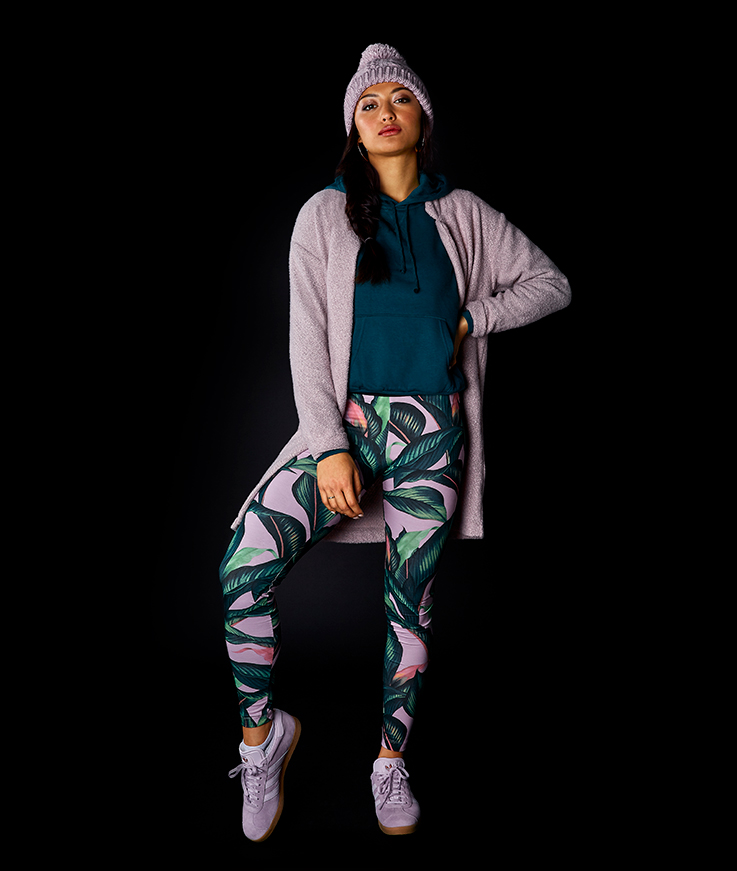
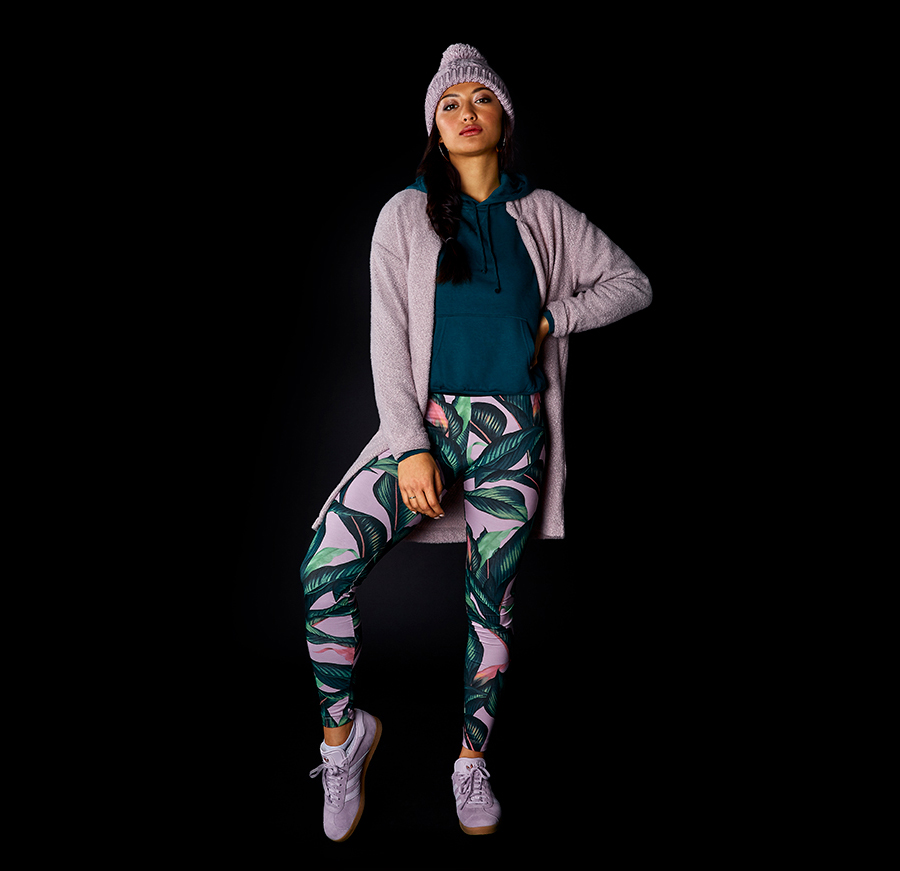
updating slider for ldo

Changed region(s): [[0.2809, 0.031, 0.7802, 0.992]]

diff --git a/_site/work/ldo/index.html b/_site/work/ldo/index.html
@@ -11,7 +11,7 @@
 <link rel="icon" type="image/png" href="/assets/img/favicon.png" />
 
 <script src="https://use.fontawesome.com/610695cb43.js"></script>
-<link rel="stylesheet" href="/assets/main.css?1560355716">
+<link rel="stylesheet" href="/assets/main.css?1560357481">
 
 <meta name="twitter:card" content="summary_large_image">
 <meta name="twitter:site" content="@" />
@@ -199,7 +199,7 @@
 </div>
 
         
-            <section class="section section--half-yellow">
+            <section class="section section--half-yellow slider--50">
     
     <div class="slider">
         <div class="slider__scroll">
@@ -225,7 +225,7 @@
                     </div>          
                 
                     <div class="slider__item">
-                        <img class="slider__item__image" src="/assets/img/case-studies/ldo/slider_2_4.jpg">                
+                        <img class="slider__item__image" src="/assets/img/case-studies/ldo/slider_2_5.jpg">                
                     </div>          
                 
             

diff --git a/pages/i-work-ldo.html b/pages/i-work-ldo.html
@@ -114,14 +114,14 @@ sections:
     content: |
         <hr class="hr" />
 -
-    class: 'section--half-yellow'
+    class: 'section--half-yellow slider--50'
     template: sections/slider.html
     data:
         - /assets/img/case-studies/ldo/slider_2_1.jpg
         - /assets/img/case-studies/ldo/slider_2_2.jpg
         - /assets/img/case-studies/ldo/slider_2_3.jpg
         - /assets/img/case-studies/ldo/slider_2_4.jpg
-        - /assets/img/case-studies/ldo/slider_2_4.jpg
+        - /assets/img/case-studies/ldo/slider_2_5.jpg
 -
     class: 'section--padding section--blue section--center section--peak section--peak--yellow'
     template: sections/section.html

diff --git a/_site/404.html b/_site/404.html
@@ -11,7 +11,7 @@
 <link rel="icon" type="image/png" href="/assets/img/favicon.png" />
 
 <script src="https://use.fontawesome.com/610695cb43.js"></script>
-<link rel="stylesheet" href="/assets/main.css?1560355716">
+<link rel="stylesheet" href="/assets/main.css?1560357481">
 
 <meta name="twitter:card" content="summary_large_image">
 <meta name="twitter:site" content="@" />

diff --git a/_site/about/index.html b/_site/about/index.html
@@ -11,7 +11,7 @@
 <link rel="icon" type="image/png" href="/assets/img/favicon.png" />
 
 <script src="https://use.fontawesome.com/610695cb43.js"></script>
-<link rel="stylesheet" href="/assets/main.css?1560355716">
+<link rel="stylesheet" href="/assets/main.css?1560357481">
 
 <meta name="twitter:card" content="summary_large_image">
 <meta name="twitter:site" content="@" />

diff --git a/_site/careers/index.html b/_site/careers/index.html
@@ -11,7 +11,7 @@
 <link rel="icon" type="image/png" href="/assets/img/favicon.png" />
 
 <script src="https://use.fontawesome.com/610695cb43.js"></script>
-<link rel="stylesheet" href="/assets/main.css?1560355716">
+<link rel="stylesheet" href="/assets/main.css?1560357481">
 
 <meta name="twitter:card" content="summary_large_image">
 <meta name="twitter:site" content="@" />

diff --git a/_site/contact/index.html b/_site/contact/index.html
@@ -11,7 +11,7 @@
 <link rel="icon" type="image/png" href="/assets/img/favicon.png" />
 
 <script src="https://use.fontawesome.com/610695cb43.js"></script>
-<link rel="stylesheet" href="/assets/main.css?1560355716">
+<link rel="stylesheet" href="/assets/main.css?1560357481">
 
 <meta name="twitter:card" content="summary_large_image">
 <meta name="twitter:site" content="@" />

diff --git a/_site/cookies-and-privacy/index.html b/_site/cookies-and-privacy/index.html
@@ -11,7 +11,7 @@
 <link rel="icon" type="image/png" href="/assets/img/favicon.png" />
 
 <script src="https://use.fontawesome.com/610695cb43.js"></script>
-<link rel="stylesheet" href="/assets/main.css?1560355716">
+<link rel="stylesheet" href="/assets/main.css?1560357481">
 
 <meta name="twitter:card" content="summary_large_image">
 <meta name="twitter:site" content="@" />

diff --git a/_site/culture/index.html b/_site/culture/index.html
@@ -11,7 +11,7 @@
 <link rel="icon" type="image/png" href="/assets/img/favicon.png" />
 
 <script src="https://use.fontawesome.com/610695cb43.js"></script>
-<link rel="stylesheet" href="/assets/main.css?1560355716">
+<link rel="stylesheet" href="/assets/main.css?1560357481">
 
 <meta name="twitter:card" content="summary_large_image">
 <meta name="twitter:site" content="@" />

diff --git a/_site/pages/index.html b/_site/pages/index.html
@@ -11,7 +11,7 @@
 <link rel="icon" type="image/png" href="/assets/img/favicon.png" />
 
 <script src="https://use.fontawesome.com/610695cb43.js"></script>
-<link rel="stylesheet" href="/assets/main.css?1560355716">
+<link rel="stylesheet" href="/assets/main.css?1560357481">
 
 <meta name="twitter:card" content="summary_large_image">
 <meta name="twitter:site" content="@" />

diff --git a/_site/pong/index.html b/_site/pong/index.html
@@ -11,7 +11,7 @@
 <link rel="icon" type="image/png" href="/assets/img/favicon.png" />
 
 <script src="https://use.fontawesome.com/610695cb43.js"></script>
-<link rel="stylesheet" href="/assets/main.css?1560355716">
+<link rel="stylesheet" href="/assets/main.css?1560357481">
 
 <meta name="twitter:card" content="summary_large_image">
 <meta name="twitter:site" content="@" />

diff --git a/_site/principles/index.html b/_site/principles/index.html
@@ -11,7 +11,7 @@
 <link rel="icon" type="image/png" href="/assets/img/favicon.png" />
 
 <script src="https://use.fontawesome.com/610695cb43.js"></script>
-<link rel="stylesheet" href="/assets/main.css?1560355716">
+<link rel="stylesheet" href="/assets/main.css?1560357481">
 
 <meta name="twitter:card" content="summary_large_image">
 <meta name="twitter:site" content="@" />

diff --git a/_site/rebrand/index.html b/_site/rebrand/index.html
@@ -11,7 +11,7 @@
 <link rel="icon" type="image/png" href="/assets/img/favicon.png" />
 
 <script src="https://use.fontawesome.com/610695cb43.js"></script>
-<link rel="stylesheet" href="/assets/main.css?1560355716">
+<link rel="stylesheet" href="/assets/main.css?1560357481">
 
 <meta name="twitter:card" content="summary_large_image">
 <meta name="twitter:site" content="@" />
